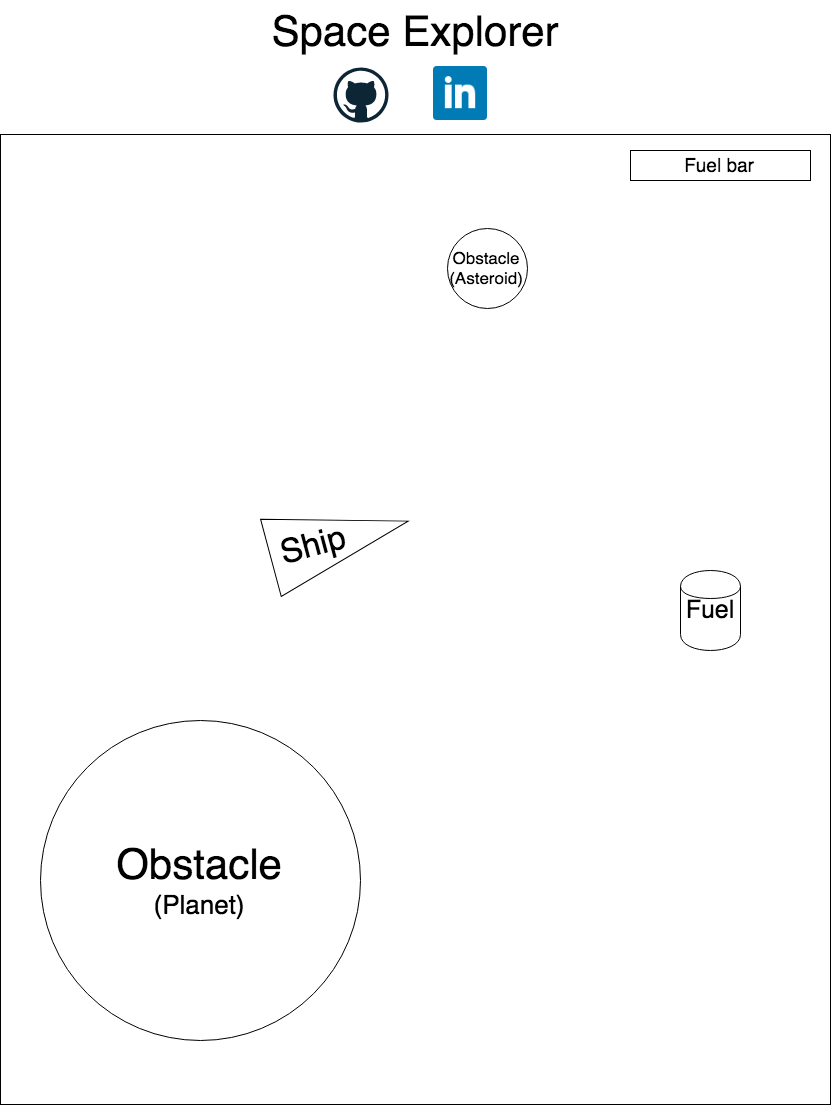
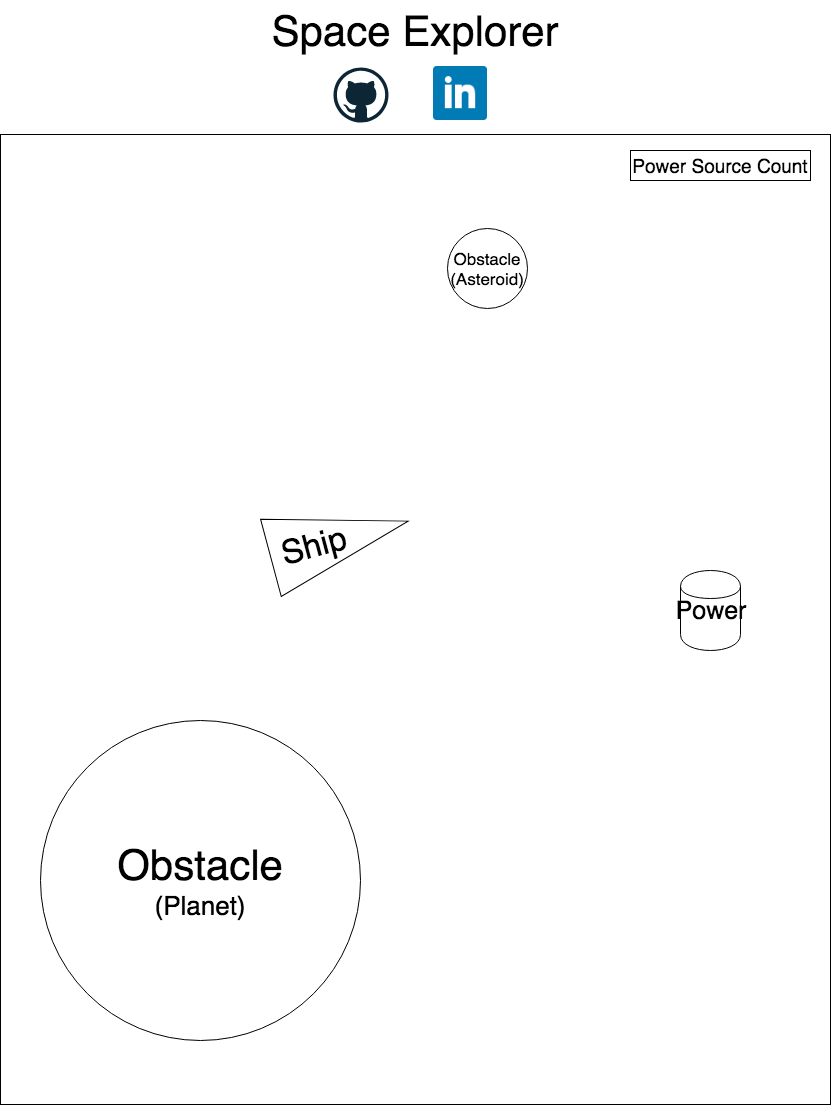
update readme

diff --git a/README.md b/README.md
@@ -2,13 +2,13 @@
 
 ## Background
 
-SpaceExplorer is loosly modeled on the classic arcade game Asteroids. However, instead of destroying Asteroids, the objective is to avoid obstacles and collect fuel-sources. 
+SpaceExplorer is loosly modeled on the classic arcade game Asteroids. However, instead of destroying Asteroids, the objective is to avoid obstacles and collect power-sources. When a player collects a level-determined number of power sources, they advance to the next level.
 
 The player moves with WSAD or &uarr;, &darr;, &rarr;, and &larr;. AD and &rarr; and &larr; do not move the ship but rotate it. 
 
-The player loses by either colliding with an obstacle that is not a fuel source, or by running out of fuel.
+The player loses by colliding with an obstacle that is not a power source.
 
-SpaceExplorer is played on an infinitely large screen; as the player moves, the viewport scrolls, generating obstacles and fuel-sources.
+SpaceExplorer is played on an infinitely large screen; as the player moves, the viewport scrolls, generating obstacles and power-sources.
 
 
 ## Functionality & MVP
@@ -16,8 +16,8 @@ SpaceExplorer is played on an infinitely large screen; as the player moves, the 
 The player will be able to: 
 
 * Move the ship using WSAD or &uarr;, &darr;, &rarr;, and &larr.
-* Collect fuel sources by colliding with them.
-* Lose the game by collision with an obstacle or running out of fuel.
+* Find power sources to win (the number you must find goes up every level).
+* Lose the game by collision with a non-power source obstacle.
 * Explore more 'space' by moving towards the edges of the viewport.
 
 In addition, the project will include:
@@ -28,7 +28,7 @@ In addition, the project will include:
 
 ## Wireframes
 
-This app will consist of a single screen with a viewport, header and links to github and my linkedIn page. The game controls and rules are simple enough that they only need to be displayed once, on start. The viewport will also render a 'fuel bar' which decreases over time, but can be replenished by collecting fuel sources. 
+This app will consist of a single screen with a viewport, header and links to github and my linkedIn page. The game controls and rules are simple enough that they only need to be displayed once, on start. The viewport will also render a count of the power sources that the player must collect to win.
 
 ![Space Explorer Wireframe](./docs/SpaceExplorer.png "Space Explorer Wireframe")
 
@@ -42,19 +42,21 @@ SpaceExplorer will be implemented with the following technologies:
 * `HTML5 Canvas` for DOM manipulation and rendering;
 * Webpack to bundle and serve up the various scripts.
 
-In addition to the Webpack entry file, there will be six scripts involved in this project: 
+In addition to the Webpack entry file, there will be seven scripts involved in this project: 
+
+`game_view.js`: This script will handle the logic for advancing levels and beginning the game.
 
 `game.js`: This script will handle logic for creating and updating the `canvas` elements and rendering them to the DOM;
 
-`movingObject.js`: This superclass will house logic shared across all the following subclasses, such as an initial `position`, a `move` function, and a `draw` function which paints the `movingObject` onto the canvas. Collision events will also be handled here. 
+`moving_object.js`: This superclass will house logic shared across all the following subclasses, such as an initial `position`, a `move` function, and a `draw` function which paints the `movingObject` onto the canvas. Collision events will also be handled here. 
 
-`spaceShip.js`: This subclass will maintain a `fuelStatus`, a speed, a size, and register eventHandlers for ship movement.
+`space_ship.js`: This subclass will maintain a `powerSource` count, a speed, a size, and register eventHandlers for ship movement.
 
 `asteroid.js`: This subclass will maintain a speed and a size.
 
 `planet.js`: This subclass will maintain a size. 
 
-`fuelSource.js`: This subclass will maintain a size. 
+`power_source.js`: This subclass will maintain a size. 
 
 
 ## Implementation Timeline
@@ -68,10 +70,9 @@ In addition to the Webpack entry file, there will be six scripts involved in thi
 * Be able to move ship around the canvas.
 * Asteroids move.
 
-**Day 3:** Implement logic that scrolls the screen if the ship gets too near one edge. Write `fuelSource.js` and handle the logic behind running out of fuel / colliding with a fuel source.
+**Day 3:** Implement logic that scrolls the screen if the ship gets too near one edge. Write `powerSource.js` and handle the logic collecting power sources and advancing to the next level.
 
-* Be able to collect fuel.
-* Be able to lose when running out of fuel.
+* Be able to win by collect powerSources.
 * Be able to explore more space by moving towards the edge of the canvas. 
 
 **Day 4:** Style the frontend, making it polished and professional.
@@ -85,5 +86,6 @@ In addition to the Webpack entry file, there will be six scripts involved in thi
 
 There are many directions to go with bonus features:
 
-* Power ups: on collision with a power-up, increase speed or allow the player to have a temporary 'shield', or even allow the player to temporarily 'shoot' and destroy asteroids.
-* Saving: since this is not really a game you 'win', the satisfaction lies in exploring more of space. Therefore, it would be satisfying to save your gamestate..
+* Power ups: on collision with a power-source, increase speed or allow the player to have a temporary 'shield', or even allow the player to temporarily 'shoot' and destroy asteroids.
+* Fuel: implement fuel sources. If the player runs out of fuel, they lose.
+* Saving: since this is not really a game you 'win', the satisfaction lies in exploring more of space. Therefore, it would be satisfying to save your gamestate.
